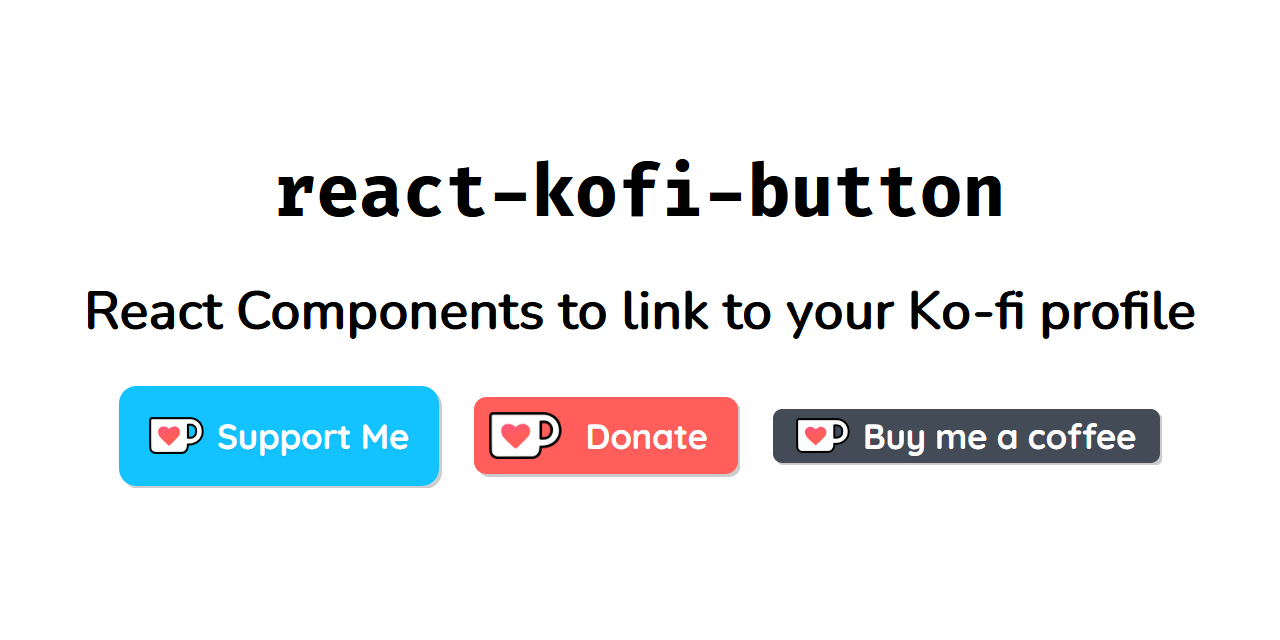
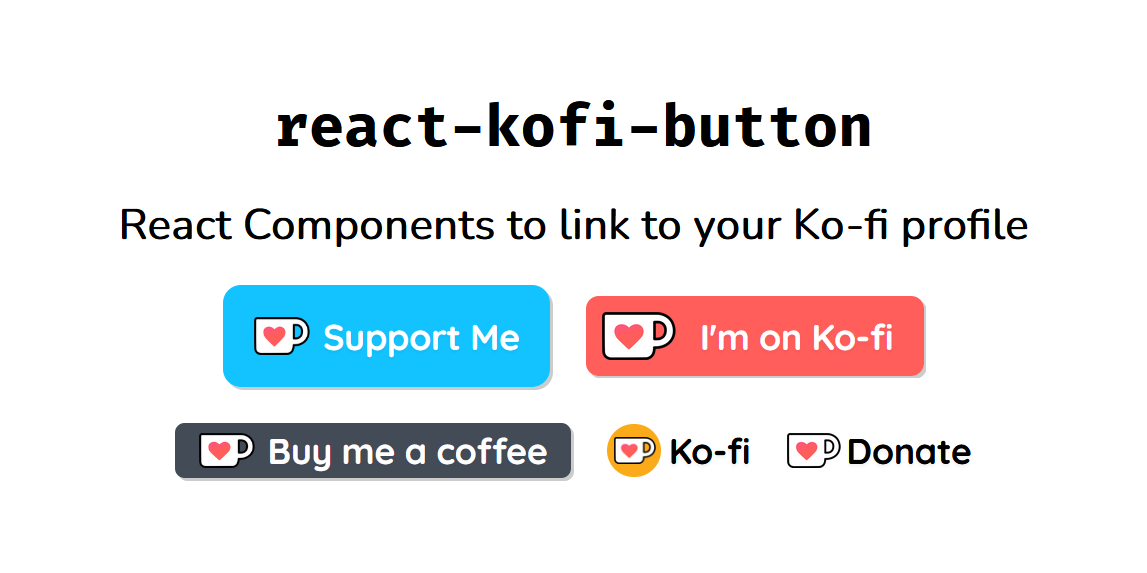
implemented and closed #3

Changed region(s): [[0.061, 0.178, 0.9459, 0.8604]]

diff --git a/src/components/KofiButton/style.scss b/src/components/KofiButton/style.scss
@@ -7,9 +7,11 @@
   padding: 0;
   color: #fff;
   text-rendering: optimizeLegibility;
+  line-height: 0;
+  --background-color: #29abe0;
   .KofiButton {
     box-sizing: inherit;
-    background: #29abe0;
+    background: var(--background-color);
     color: inherit;
     font-size: inherit;
     font-family: "Quicksand", Helvetica, Century Gothic, sans-serif;
@@ -21,7 +23,7 @@
     text-align: center;
     white-space: nowrap;
     overflow-wrap: break-word;
-    line-height: 1;
+    line-height: inherit;
     min-height: math.div(40em, 14);
     box-shadow: math.div(1em, 14) math.div(1em, 14) 0 rgba(0, 0, 0, 0.2);
     margin: 0;
@@ -59,36 +61,39 @@
       overflow-wrap: inherit;
       cursor: inherit;
       line-height: inherit;
-      margin: 0;
+      margin: auto;
       padding: 0;
       text-shadow: 0 math.div(1em, 14) math.div(1em, 14) rgba(34, 34, 34, 0.05);
     }
-    .KofiImage {
-      display: initial;
-      height: math.div(15em, 14);
-      max-height: 228px;
-      width: math.div(22em, 14);
-      max-width: 353px;
-      vertical-align: middle;
-      border: none;
-      content: url("https://storage.ko-fi.com/cdn/cup-border.png");
-      &.animation_true {
-        animation: kofi-wiggle 3s infinite 1.8s;
+    .KofiImageContainer {
+      max-height: fit-content;
+      line-height: 0;
+      .KofiImage {
+        display: initial;
+        height: math.div(15em, 14);
+        max-height: 228px;
+        width: math.div(22em, 14);
+        max-width: 353px;
+        vertical-align: middle;
+        border: none;
+        content: url("https://storage.ko-fi.com/cdn/cup-border.png");
+        &.animation_true {
+          animation: kofi-wiggle 3s infinite 1.8s;
+        }
       }
     }
     &.thin {
       min-height: auto;
       padding: 0 math.div(6em, 14);
       border-radius: math.div(5em, 14);
+      line-height: 1;
       .KofiText {
         padding: math.div(8.5em, 14) math.div(6em, 14) math.div(8.5em, 14)
           math.div(4.5em, 14);
       }
       .KofiImage {
         height: auto;
-        max-height: 228px;
         width: math.div(29em, 14);
-        max-width: 353px;
       }
     }
     &.skinny {
@@ -97,9 +102,45 @@
       border-radius: math.div(4em, 15);
       .KofiImage {
         height: 1em;
-        max-height: 228px;
         width: auto;
-        max-width: 353px;
+      }
+    }
+    &.circle {
+      min-height: auto;
+      padding: 0;
+      border-radius: 0;
+      background: none;
+      box-shadow: none;
+      color: black;
+      gap: math.div(3em, 14);
+      .KofiImageContainer {
+        background: var(--background-color);
+        height: 1.5em;
+        width: 1.5em;
+        border-radius: 50%;
+      }
+      .KofiImage {
+        height: 0.75em;
+        width: auto;
+        margin: auto;
+        padding-left: math.div(5 * 0.75em, 92.5);
+      }
+    }
+    &.no_background {
+      min-height: auto;
+      padding: 0;
+      border-radius: 0;
+      background: none;
+      box-shadow: none;
+      color: black;
+      gap: math.div(2em, 14);
+      .KofiImageContainer {
+        .KofiImage {
+          width: 1.5em;
+          height: auto;
+          margin: auto;
+          padding-left: math.div(5 * 0.75em, 92.5);
+        }
       }
     }
   }

diff --git a/src/App.js b/src/App.js
@@ -32,7 +32,7 @@ function App() {
           <section className="SocialPreview">
             <h1>react-kofi-button</h1>
             <h2>React Components to link to your Ko-fi profile</h2>
-            <figure>
+            <figure style={{ fontSize: "1.25em" }}>
               <KofiButton
                 username="costasak"
                 label="Support Me"
@@ -40,7 +40,7 @@ function App() {
               />
               <KofiButton
                 username="costasak"
-                label="Donate"
+                label="I'm on Ko-fi"
                 preset="thin"
                 backgroundColor="kofiRed"
                 animation={false}
@@ -50,6 +50,19 @@ function App() {
                 label="Buy me a coffee"
                 preset="skinny"
                 backgroundColor="kofiGrey"
+                animation={false}
+              />
+              <KofiButton
+                username="costasak"
+                label="Ko-fi"
+                preset="circle"
+                backgroundColor="kofiYellow"
+                animation={false}
+              />
+              <KofiButton
+                username="costasak"
+                label="Donate"
+                preset="no_background"
                 animation={false}
               />
             </figure>

diff --git a/src/components/KofiButton/index.js b/src/components/KofiButton/index.js
@@ -4,7 +4,7 @@ import PropTypes from "prop-types";
 import React from "react";
 import kofiColors from "../functions/kofiColors";
 
-const known_presets = ["thin", "skinny"];
+const known_presets = ["thin", "skinny", "circle", "no_background"];
 
 export default function KofiButton({
   username,
@@ -23,16 +23,20 @@ export default function KofiButton({
   }
 
   return (
-    <div className="KofiContainer">
+    <div
+      className="KofiContainer"
+      style={{ "--background-color": kofiColors(backgroundColor) }}
+    >
       <a
         className={"KofiButton " + preset}
         href={profile_url}
         target="_blank"
         rel="noreferrer noopener external"
         title={title}
-        style={{ background: kofiColors(backgroundColor) }}
       >
-        <img className={"KofiImage animation_" + animation} alt="" />
+        <figure className="KofiImageContainer">
+          <img className={"KofiImage animation_" + animation} alt="" />
+        </figure>
         {label && <span className="KofiText">{label}</span>}
       </a>
     </div>

diff --git a/src/App.scss b/src/App.scss
@@ -16,7 +16,7 @@
       justify-content: center;
       .SocialPreview {
         margin: auto;
-        font-size: 250%;
+        font-size: 200%;
         h1 {
           font-family: "Fira Code", monospace;
           margin-top: 0;

diff --git a/src/index.css b/src/index.css
@@ -3,7 +3,7 @@
 @import url(https://fonts.googleapis.com/css?family=Nunito);
 
 html {
-  font-size: 14px;
+  font-size: 100%;
 }
 
 body {
